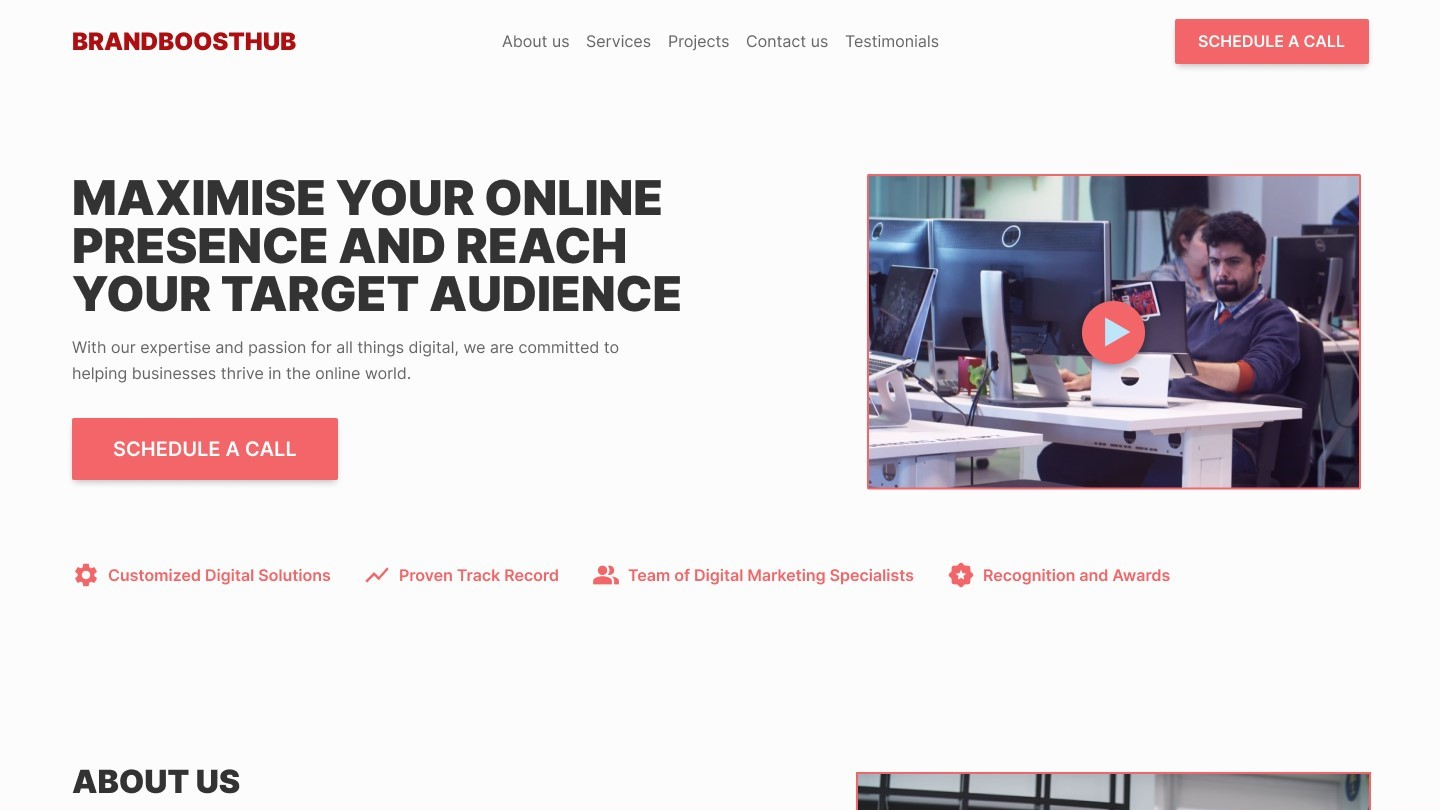
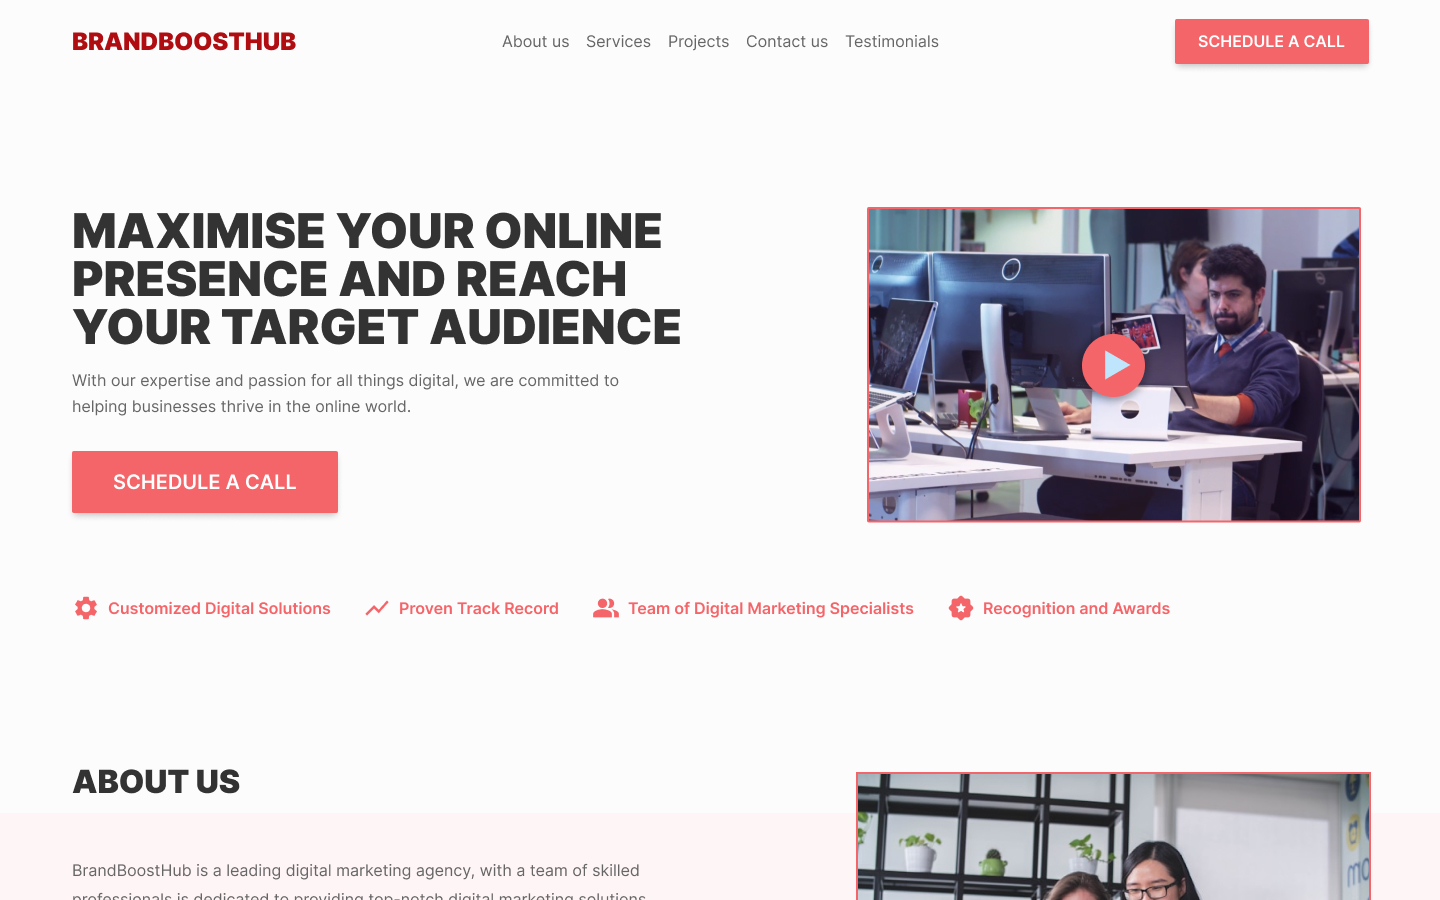
Complete case studies section deaktop

diff --git a/sections/CaseStudies/CaseStudies.jsx b/sections/CaseStudies/CaseStudies.jsx
@@ -1,0 +1,120 @@
+import Image from "next/image";
+import Link from "next/link";
+
+import "./case-studies.css";
+
+import after1 from "@/public/images/after-1.jpg";
+import after2 from "@/public/images/after-2.jpg";
+import after3 from "@/public/images/after-3.jpg";
+import after4 from "@/public/images/after-4.jpg";
+import arrow from "@/public/images/arrow.svg";
+
+const CaseStudies = () => {
+  return (
+    <section id="case-studies">
+      <p className="uppercase text-center">Case studies</p>
+      <h2 className="text-center mb-16">Concepts and real-life projects</h2>
+
+      <ul className="flex gap-8 overflow-x-scroll pb-4">
+        <li className="case-container min-w-[25%]">
+          <Image
+            src={after1}
+            alt="BrandBoostHub website redesign mockup"
+            height="500"
+            width="auto"
+            className="img w-full mb-8 opacity-50 rounded-lg transition-opacity"
+          />
+          <p className="mb-2 leading-tight">
+            Real Life Business Solutions website redesign concept
+          </p>
+          <Link
+            href="/case-studies/reallifebizsol"
+            className="text-accent flex items-center gap-2 w-fit hover:gap-4 transition-all"
+          >
+            <span>View case study</span>
+            <Image src={arrow} height="14" width="auto" alt="Arrow" />
+          </Link>
+        </li>
+
+        <li className="case-container min-w-[25%]">
+          <Image
+            src={after2}
+            alt="BrandBoostHub website redesign mockup"
+            height="500"
+            width="auto"
+            className="img w-full mb-8 opacity-50 rounded-lg transition-opacity"
+          />
+          <p className="mb-2 leading-tight">
+            Real Life Business Solutions website redesign concept
+          </p>
+          <Link
+            href="/case-studies/reallifebizsol"
+            className="text-accent flex items-center gap-2 w-fit hover:gap-4 transition-all"
+          >
+            <span>View case study</span>
+            <Image src={arrow} height="14" width="auto" alt="Arrow" />
+          </Link>
+        </li>
+        <li className="case-container min-w-[25%]">
+          <Image
+            src={after3}
+            alt="BrandBoostHub website redesign mockup"
+            height="500"
+            width="auto"
+            className="img w-full mb-8 opacity-50 rounded-lg transition-opacity"
+          />
+          <p className="mb-2 leading-tight">
+            Real Life Business Solutions website redesign concept
+          </p>
+          <Link
+            href="/case-studies/reallifebizsol"
+            className="text-accent flex items-center gap-2 w-fit hover:gap-4 transition-all"
+          >
+            <span>View case study</span>
+            <Image src={arrow} height="14" width="auto" alt="Arrow" />
+          </Link>
+        </li>
+        <li className="case-container min-w-[25%]">
+          <Image
+            src={after4}
+            alt="BrandBoostHub website redesign mockup"
+            height="500"
+            width="auto"
+            className="img w-full mb-8 opacity-50 rounded-lg transition-opacity"
+          />
+          <p className="mb-2 leading-tight">
+            Real Life Business Solutions website redesign concept
+          </p>
+          <Link
+            href="/case-studies/reallifebizsol"
+            className="text-accent flex items-center gap-2 w-fit hover:gap-4 transition-all"
+          >
+            <span>View case study</span>
+            <Image src={arrow} height="14" width="auto" alt="Arrow" />
+          </Link>
+        </li>
+        <li className="case-container min-w-[25%]">
+          <Image
+            src={after3}
+            alt="BrandBoostHub website redesign mockup"
+            height="500"
+            width="auto"
+            className="img w-full mb-8 opacity-50 rounded-lg transition-opacity"
+          />
+          <p className="mb-2 leading-tight">
+            Real Life Business Solutions website redesign concept
+          </p>
+          <Link
+            href="/case-studies/reallifebizsol"
+            className="text-accent flex items-center gap-2 w-fit hover:gap-4 transition-all"
+          >
+            <span>View case study</span>
+            <Image src={arrow} height="14" width="auto" alt="Arrow" />
+          </Link>
+        </li>
+      </ul>
+    </section>
+  );
+};
+
+export default CaseStudies;

diff --git a/ui/FloatingImages.jsx b/ui/FloatingImages.jsx
@@ -1,41 +1,60 @@
 import after1 from "@/public/images/after-1.jpg";
-import after2 from "@/public/images/after-2.png";
-import after3 from "@/public/images/after-3.png";
-import after4 from "@/public/images/after-4.png";
+import after2 from "@/public/images/after-2.jpg";
+import after3 from "@/public/images/after-3.jpg";
+import after4 from "@/public/images/after-4.jpg";
 import Image from "next/image";
 
 const FloatingImages = () => {
   return (
     <>
       {/* Floating images */}
-      <Image
-        src={after1}
-        alt="BrandBoostHub website redesign mockup"
-        height="200"
-        width="auto"
-        className="opacity-30 rounded-lg absolute -left-32 top-32 hover:opacity-80 hover:-left-28 transition-all"
-      />
-      <Image
-        src={after2}
-        alt="MDBBA website redesign mockup"
-        height="200"
-        width="auto"
-        className="opacity-30 absolute left-8 top-[70vh] hover:opacity-80 hover:left-10 transition-all"
-      />
-      <Image
-        src={after3}
-        alt="Real Life Business Solutions website redesign mockup"
-        height="200"
-        width="auto"
-        className="opacity-30 absolute -right-10 top-32 hover:opacity-80 hover:-right-8 transition-all"
-      />
-      <Image
-        src={after4}
-        alt="Revolve Detroit website redesign mockup"
-        height="200"
-        width="auto"
-        className="opacity-30 absolute right-4 top-[70vh] hover:opacity-80 hover:right-6 transition-all"
-      />
+      <a
+        href="#case-studies"
+        className="opacity-30 rounded-lg overflow-hidden absolute -left-16 top-16 hover:opacity-80 hover:-left-8 transition-all"
+      >
+        <Image
+          src={after1}
+          alt="BrandBoostHub website redesign mockup"
+          height="200"
+          width="auto"
+        />
+      </a>
+
+      <a
+        href="#case-studies"
+        className="opacity-30 absolute rounded-lg overflow-hidden -left-28 top-[70vh] hover:opacity-80 hover:-left-16 transition-all"
+      >
+        <Image
+          src={after2}
+          alt="MDBBA website redesign mockup"
+          height="200"
+          width="auto"
+        />
+      </a>
+
+      <a
+        href="#case-studies"
+        className="opacity-30 absolute rounded-lg overflow-hidden -right-32 top-32 hover:opacity-80 hover:-right-16 transition-all"
+      >
+        <Image
+          src={after3}
+          alt="Real Life Business Solutions website redesign mockup"
+          height="200"
+          width="auto"
+        />
+      </a>
+
+      <a
+        href="#case-studies"
+        className="opacity-30 absolute rounded-lg overflow-hidden -right-28 top-[70vh] hover:opacity-80 hover:-right-16 transition-all"
+      >
+        <Image
+          src={after4}
+          alt="Revolve Detroit website redesign mockup"
+          height="200"
+          width="auto"
+        />
+      </a>
     </>
   );
 };

diff --git a/app/page.jsx b/app/page.jsx
@@ -4,6 +4,7 @@ import Navbar from "@/sections/Navbar/Navbar";
 import FloatingImages from "@/ui/FloatingImages";
 import Benefits from "@/sections/Benefits/Benefits";
 import Process from "@/sections/Process";
+import CaseStudies from "@/sections/CaseStudies/CaseStudies";
 
 export default function Home() {
   return (
@@ -13,6 +14,7 @@ export default function Home() {
       <FloatingImages />
       <Benefits />
       <Process />
+      <CaseStudies />
     </>
   );
 }

diff --git a/app/globals.css b/app/globals.css
@@ -8,6 +8,7 @@ html {
 
 ::-webkit-scrollbar {
   width: 8px;
+  height: 0px;
 }
 
 ::-webkit-scrollbar-track {
@@ -56,7 +57,7 @@ h2 {
 }
 
 section {
-  @apply scroll-mt-16 py-16;
+  @apply scroll-mt-8 py-32;
 }
 
 /* :root {

diff --git a/sections/CaseStudies/case-studies.css b/sections/CaseStudies/case-studies.css
@@ -1,0 +1,3 @@
+.case-container:hover .img {
+  @apply opacity-80;
+}
